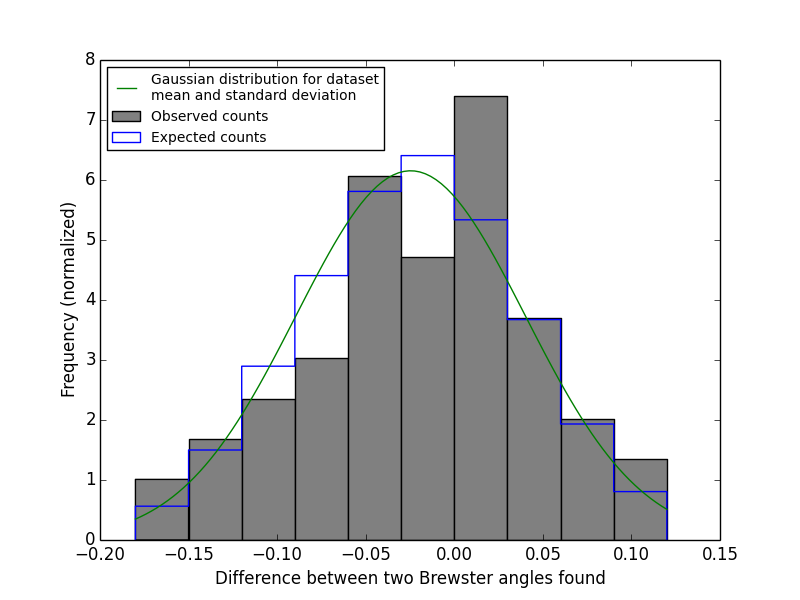
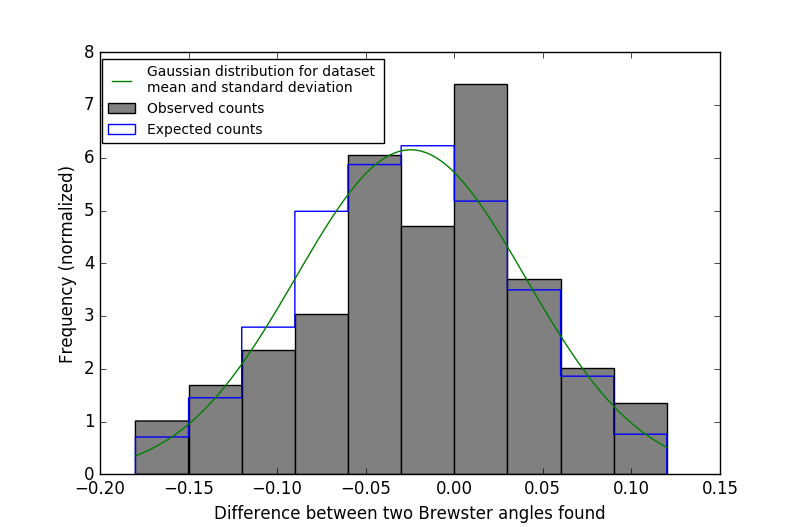
Add updated code for Brewster analysis

diff --git a/Laser/brewsterAnalysis.py b/Laser/brewsterAnalysis.py
@@ -7,7 +7,7 @@ Created on Thu Feb 16 16:22:09 2017
 
 import numpy 
 import scipy
-from scipy.optimize import leastsq
+from scipy.stats import norm 
 import matplotlib.pyplot as plt
 import os
 
@@ -54,17 +54,25 @@ for i in range(50):
 angleOnes = numpy.delete(angleOnes,50)
 angleTwos = numpy.delete(angleTwos,50)
 
-
 compiledData = numpy.column_stack((angleOnes,angleTwos))
 
 numpy.savetxt('./brewsterAngles/angleData.txt',compiledData)
 
-rootSquareDiff = numpy.sqrt(numpy.square(numpy.subtract(angleOnes,angleTwos)))
+normedDiff = numpy.divide(numpy.subtract(angleOnes,angleTwos),100)
+numBins = numpy.ceil(numpy.sqrt(len(normedDiff)))
+
+normx = numpy.linspace(min(normedDiff),max(normedDiff),100)
+p = norm.pdf(normx, numpy.mean(normedDiff),numpy.std(normedDiff))
+pScaled = numpy.divide(p,numpy.sum(p))
+k = numpy.random.choice(normx,size=10000,p=pScaled)
+
 
 plt.figure(figsize=(8,6), dpi=150)
-plt.hist(rootSquareDiff,bins=10,normed=True)
-plt.xlabel("Root squared difference between angles (degrees)",fontsize=12)
-plt.ylabel("Frequency",fontsize=12)
-plt.hist(rootSquareDiff,bins=10)
+obs = plt.hist(normedDiff,bins=numBins,normed=True,color="grey",label="Observed counts")
+exp = plt.hist(k,bins=numBins,normed=True,histtype="step",label="Expected counts")
+gaussian = plt.plot(normx,p,label="Gaussian distribution for dataset \nmean and standard deviation")
+plt.legend(bbox_to_anchor=(0.47, 1),fontsize=10)
+plt.xlabel("Difference between two Brewster angles found",fontsize=12)
+plt.ylabel("Frequency (normalized)",fontsize=12)
+plt.axes.ylim = [0,10]
 plt.savefig('./brewsterAngles/angleDiff.png')
-
